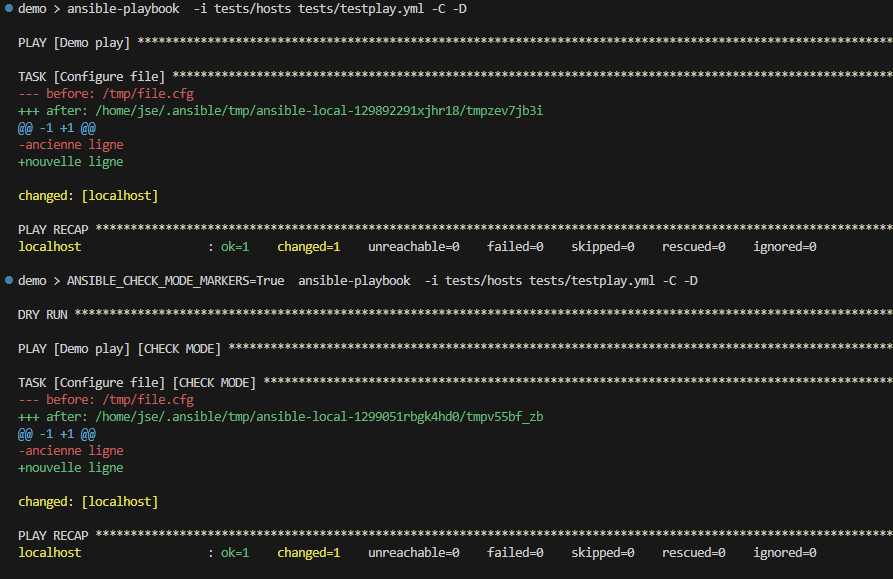
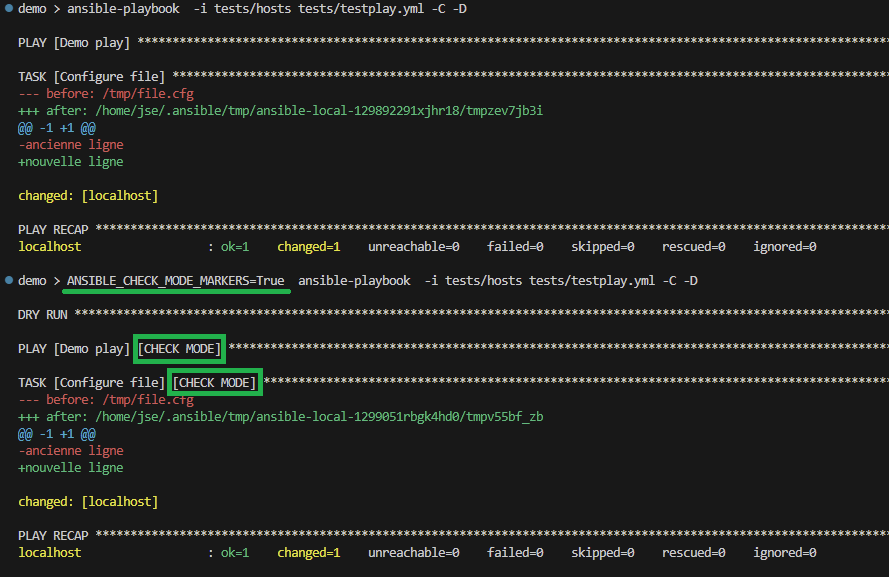
review

diff --git a/exampleSite/content/blogs/01-ansible-facile.md b/exampleSite/content/blogs/01-ansible-facile.md
@@ -1,6 +1,6 @@
 ---
-title: "Une meilleure expérience  Ansible"
-date: 2023-11-19T23:02:21+01:00
+title: "Ansible, une meilleure expérience est possible."
+date: 2023-11-25T19:02:21+01:00
 draft: false
 github_link: "https://github.com/jseguillon"
 author: "jseguillon"
@@ -13,67 +13,87 @@ description: ""
 toc:
 ---
 
-Ansible a mauvaise réputation en terme d'éxpérience, que ce soit pour l'ops/sre qui peine parfois à produire ses YAMLs, ou pour le dev qui voudrait au moins pouvoir lancer quelques pipelines lui-même mais qui ne comprend rien aux logs et qui a peur de faire une bêtise. Ce billet de blog, tout premier pour moi, est là pour donner quelques pistes pour se rendre la vie plus belle quand on utilise Ansible. Let's go!
 
-## L'option diff 
+Ansible a mauvaise réputation en terme d'expérience utilisateur:
+* que ce soit pour l'ops/sre qui peine parfois à produire ses YAMLs
+* ou pour le dev qui voudrait au moins pouvoir lancer quelques pipelines lui-même mais qui ne comprend rien aux logs et qui a peur de faire une bêtise.
+
+
+Ce billet de blog, tout premier pour moi, est là pour donner quelques pistes pour se rendre la vie plus belle quand on utilise Ansible. Let's go!
+
+
+## L'option diff
+
 
 On commence par une option indispensable de la commande `ansible-playbook`: l'option `-D`, diff. Cette option va vous permettre de visualiser les modifications effectuées par une tâche Ansible. Une démo valant mieux que 100 mots, voici un avant/après option `-D`.
 
-L'exemple ci-dessous montre la commande `ansible-playbook -D` en action: 
 
 ![Le diff mode en action](/images/blogs/01-ansible-facile/diff_mod.png "Le diff mode en action")
 
-Vous l'aurez compris, l'option nous permet de voir au-délà du simple statut `[changed]`, les modifications **rééellement apportées** par Ansible. Si vous voulez mon avis, cette option devrait être activée par défaut dans Ansible...
+
+Vous l'aurez compris, l'option nous permet de voir au-délà du simple statut `[changed]`, les modifications **réellement apportées** par Ansible. Si vous voulez mon avis, cette option devrait être activée par défaut dans Ansible...
+
 
 ```
 # Toujours mettre le flag -D
 ansible-playbook -D ...
 ```
 
-La plupart des modules fonctionnent proprement avec le diff mode mais faites la chasse aux tâches qui affichent du changed sans aucune diff. J'ai un souvenir douloureux d'un module qui, renvoyait simplement changed sans détails. Tout le monde s'en était accomodé, les changements étaient maîtrisés sur ce périmètre... jusqu'au jour où...
+
+**Note** : La *plupart* des modules fonctionnent proprement avec le diff mode. Mais faites la chasse aux tâches qui affichent du changed sans aucune diff ! J'ai un souvenir douloureux d'un module qui renvoyait simplement `[changed]` sans détails. Tout le monde s'en était accommodé, les changements étaient maîtrisés sur ce périmètre... jusqu'au jour où...
+
 
 ## L'option check
 
-Autre option indispensable: le flag `-C `, check mode. Si Ansible ne peut garantir l'exécution d'un playbook, comme le ferait un Terraform, il est tout de même possible de lancer Ansible pour qu'il nous affiche ce *qu'il aurait fait* s'il n'avait pas été lancé avec le flag `-C`. 
+
+Autre option indispensable: le flag `-C `, check mode. Si Ansible ne peut garantir l'exécution d'un playbook, comme le ferait un Terraform, il est tout de même possible de lancer Ansible pour qu'il nous affiche ce *qu'il aurait fait* s'il n'avait pas été lancé avec le flag `-C`.
+
 
 Dans l'exemple ci-dessous, je lance deux fois le playbook, le fichier n'est jamais modifié:
 ![Le check mode en action](/images/blogs/01-ansible-facile/check_mod.png "Le check mode en action")
 
-Combiné avec le diff mode `-D` c'est mon combo préféré:
-* c'est rassurant de pouvoir vérifier ce qu'il devrait se passer quand on va réellement appliquer avant de le faire effectivement; et indispensable si vous espérez qu'un jour vos devs cliquent d'eux-même sur les étapes de déploiements des pipelines applicatives,
-* pour travailler ses roles c'est très pratique: on peut repartir de zéro à chaque exécution, sans jamais devoir re-créer sa VM (ou serveur) avant de recommencer. Bien sûr on doit ensuite s'assurer que tout fonctionne sans le check mode, mais on peut vraiment avancer plus rapidement. Essayez, vous verrez!
 
-**Attention**: cela ne *garanti pas* ce qu'il se passera réellement sur vos machines *au moment* ou vous allez lancer le playbook sans flag `-C`. Entre le moment où vous lancer votre check et le moment ou vous appliquerez réellement votre playbook, il peut y avoir eu des changements sur vos plateformes. Et contrairement à Terraform qui bloquerait en constatant que l'état de départ ne correspond plus à son "plan"; Ansible lui déroulera le playbook jusqu'au bout sans sourciller.
+Utilisé avec le diff mode `-D` c'est mon combo préféré:
+* c'est rassurant de pouvoir vérifier ce qu'il *devrait* se passer avant d'appliquer; et indispensable si vous espérez qu'un jour vos devs lancent d'eux-même l'exécution des playbooks qui les concernent,
+* pour travailler ses rôles c'est très pratique: on peut "repartir de zéro" à chaque exécution (en fait on ne fait rien), sans jamais devoir re-créer sa VM (ou serveur) avant de recommencer. Bien sûr on doit, à la fin, s'assurer que tout fonctionne sans le check mode, mais on peut vraiment avancer plus rapidement. Essayez, vous verrez!
 
-**Attention 2**: les roles ne sont pas souvent compatible avec le check mode, surtout à la première installation. Attendez-vous à devoir ajouter quelques `when: not ansible_check_mode` (voir même des `ignore_errors: {{ ansible_check_mode }}`) dans le code source des rôles que vous forkez.
 
 ```
-# Check mode + diff
+# Check mode + diff le combo parfait
+# Pour se rassurer ou pour dev plus vite
 ansible-playbook -C -D ...
 ```
 
-## Le "default callback" et ses configurations:
 
-Quand vous lancer vos playbooks, c'est le "Default Callback" qui se charge d'afficher les résultats. Et la configuration par défaut peut s'améliorer en réglant plusieurs variables d'environnement:
+**Attention**: cela ne *garanti pas* ce qu'il se passera réellement sur vos machines *au moment* ou vous allez lancer le playbook sans flag `-C`. Entre le moment où vous lancer votre check et le moment ou vous appliquez réellement votre playbook, il peut y avoir eu des changements sur vos plateformes (ou sur une dépendance, un nouveau paquet publié sur un dépôt par exemple).
+
+
+**Attention 2**: les rôles ne sont pas si souvent compatibles avec le check mode, surtout lorsqu'il n'a pas encore été lancé. Attendez-vous à devoir ajouter quelques `when: not ansible_check_mode` (voir même des `ignore_errors: {{ ansible_check_mode }}`) dans le code source des rôles que vous forkez.
+
+
+## Le "default callback" et ses configurations
+
+
+Quand vous lancer vos playbooks, c'est le plugin "default callback" qui se charge d'afficher les résultats. Et la configuration par défaut peut s'améliorer en réglant quelques variables d'environnement:
 * la variable `ANSIBLE_CHECK_MODE_MARKERS` pour aller avec le check mode: permet de bien indiquer si des tâches ont été lancées en check mode ou pas (encore un qui devrait être activer par défaut :/)
 ![check mode marker](/images/blogs/01-ansible-facile/check_mod_marker.png "Check mode marker")
 
-- la variable `ANSIBLE_SHOW_TASK_PATH_ON_FAILURE=True` affiche le chemin de les tâches en erreur, bien pratique aussi
-<!-- ![failule path](/images/blogs/01-ansible-facile/fail_path.png "Failure path") -->
 
-<p align="center">
-<img src="/images/blogs/01-ansible-facile/fail_path.png" alt="Failure path">
-</p>
+- la variable `ANSIBLE_SHOW_TASK_PATH_ON_FAILURE=True` affiche le chemin et la ligne de les tâches en erreur, bien pratique aussi
+![failule path](/images/blogs/01-ansible-facile/fail_path.png "Failure path")
 
 
 * la variable `ANSIBLE_CALLBACK_RESULT_FORMAT=yaml`, indispensable pour la lisibilité des debug messages
 ![Yaml](/images/blogs/01-ansible-facile/yaml_format.png "Yaml")
 
-En général, dans une pipeline CI/CD, j'active toutes ces options et j'utilise également celles-ci : 
+
+En général, dans une pipeline CI/CD, j'active toutes ces options et j'utilise également celles-ci :
 * la variable `ANSIBLE_DISPLAY_OK_HOSTS=True` masque les tâches qui sont ok
 * la variable `ANSIBLE_DISPLAY_SKIPPED_HOSTS=true` masque les tâches qui sont skipped
 
-Je ne les active que sur les étapes de check: l'objectif est de miniser la sortie pour ne voir que les changed, et avec leurs diffs bien sûr. 
+
+Je ne les active que sur les étapes de check: l'objectif est de miniser la sortie pour ne voir que les changed, et avec leurs diffs bien sûr.
+
 
 ```
 # Check mode qui montre uniquement les changed
@@ -82,88 +102,71 @@ ANSIBLE_DISPLAY_SKIPPED_HOSTS=true \
 ansible-playbook -C -D ...
 ```
 
-C'est avec toutes ces options que j'arrive à avoir des devs qui cliquent (presque) sereinement sur les pipelines de check d'abord, et de décider seuls d'appliquer ou non les changement qu'ils visualisent. 
 
-Allez, une dernière pour la route : la variable `ANSIBLE_FORCE_COLOR=True`, c'est celle-ci qu'il faut activer quand vous avez une pipepline en noir et blanc dans votre outil ce CI/CD préféré. De rien :) 
+C'est avec toutes ces options que j'arrive à avoir des devs qui cliquent (presque) sereinement sur les pipelines de check d'abord, et de décider seuls d'appliquer ou non les changements qu'ils visualisent.
 
-Rappel : toutes ces variables sont également configurables dans un fichier fichier de configuration `ansible.cfg`. C'est même recommandé (plus propre). Voir la [doc](https://docs.ansible.com/ansible/latest/collections/ansible/builtin/default_callback.html).
 
-## Utiliser un autre callback
+Une dernière pour la route : la variable `ANSIBLE_FORCE_COLOR=True`, c'est celle-ci qu'il faut activer quand vous avez une pipepline en noir et blanc dans votre outil ce CI/CD préféré. Et oui celle-ci aussi devrait être activée par défaut.
 
-Il y a d'autres callbacks disponsibles, la liste officielles est [ici](https://github.com/ansible/ansible/tree/devel/lib/ansible/plugins/callback) mais il y en a bien d'autres.
 
-Notamment il y a le callback [Ara](https://ara.recordsansible.org/), bien connu, qui permet d'enregistrer ses exécutions de playbooks dans une base de données et de les consulter via une interface web. Très pratique mais induit pas mal de lenteur à l'exécution (temps multiplié par 2 d'après mes mesures).
+**Note** : toutes ces variables sont également configurables dans un fichier fichier de configuration `ansible.cfg`. C'est même recommandé (plus propre). Voir la [doc](https://docs.ansible.com/ansible/latest/collections/ansible/builtin/default_callback.html).
 
-Il y en a un aussi super qui permet d'avoir une log au format Asciidoc avec un rendu ressemblant à une interface Web. Il est super mais n'a pas beacoup évolué depuis qu'il est sorti. Fin de la blague c'est le mien, mon bébé  [Caradoc](https://github.com/jseguillon/caradoc). Et si vous le trouvez cool, mettez des petites étoiles et/ou proposer des PRs ya de quoi en faire un outil formidable.
+
+## Ajouter un autre callback
+
+
+La doc Ansible nous explique:
+* que le default callback plugin est un plugin de type "stdout"
+* qu'on ne utiliser qu'un seul "callback plugin stdout" à la fois
+
+
+Ca semble triste mais heureusement, Ansible a prévu [d'autres types](https://docs.ansible.com/ansible/latest/plugins/callback.html) de callback plugins
+![Types de callback plugins](/images/blogs/01-ansible-facile/ansible_doc_callback_plugins.png "Types de callback plugins")
+
+
+Dans la catégorie "aggregate", il y a notamment le callback [Ara](https://ara.recordsansible.org/), qui permet d'enregistrer ses exécutions de playbooks dans une base de données et de les consulter via une interface web. Très pratique mais induit pas mal de lenteur à l'exécution (temps multiplié par 2 d'après mes mesures).
+
+
+Il y en a un aussi super qui permet d'avoir une log au format Asciidoc et pourtant un rendu similaire à une interface Web. Il est incroyable mais n'a pas beacoup évolué depuis qu'il est sorti. Fin de la blague c'est le mien, mon bébé [Caradoc](https://github.com/jseguillon/caradoc). Et si vous le trouvez cool, mettez des petites étoiles et/ou proposer des PRs ya de quoi en faire un outil formidable.
+
 
 ![Il est beau je vous dis](/images/blogs/01-ansible-facile/caradoc.png "Je me suis réveillé, j'avais envie de manger des logs.")
 
-<!--TODO: nouvelle version: chainer les callbacks -->
 
 ## "Voir" ce qu'Ansible a fait sur un serveur
 
+
 Ansible se connecte en ssh pour effectuer ses connexions. Et il laisse des traces bienvenues dans le syslog des machines. En fouillant les logs avec un simple grep, on peut visualiser ce qu'il s'est passé sur la machine. C'est pas fou mais ça permet au moins d'être sûr que Ansible travaille sur le bon serveur. Ou de trouver quand un fichier a été modifié par Ansible par exemple.
+
 
 ```
 # Serveur, mon beau serveur, Ansible est-il passé par ici ?
 amdin@server$ journalctl --since "1 hour ago" | grep ansible
 ```
 
+
 ## Utiliser les IAs conversationnelles et les outils IDE
 
-On est bientôt en 2024 et les IAs prennent le pouvoir !?! Pour ma part je considère que l'outil est assez bon pour me faire gagner du temps et je ne vois donc pas de raison de m'en passser. Surtout pour Ansible qui est un puis sans fond: les listes de modules, plugins, variables, etc... c'est "inhumain". Bien sûr relisez, corrigez, etc... mais ne vous privez pas.
 
-De même, on ne recommandera jamais assez l'installation de plugins Ansible dans votre IDE. Vous pouvez avoir de la colloration syntaxique, du lint, de la complétion, des snippets etc... même dans vim! (enfin je crois).
-
-A la prochaine :)
-<!-- ## Flag verbose
-
-le flag -v 
-(pensez à le rendre configurable dans les params de la CI ça peut servir)
+On est bientôt en 2024 et les IAs prennent le pouvoir !?! Pour ma part je considère que l'outil est assez bon pour me faire gagner du temps et je ne vois donc pas de raison de m'en passer. Surtout pour Ansible qui est un puis sans fond: les listes de modules, plugins, variables, etc... c'est "inhumain". L'IA est un super outil pour ça. Bien sûr relisez, corrigez, testez ce que produisent les IAs... mais ne vous en privez pas :)
 
 
-(mais attention au 1er check mode => recette)
-
-## Utiliser les LLMS et les outils IDE 
-TODO: --> 
-
-<!--
-
-## Consulter les magics variables
-
-play_hosts, groups, etc... 
+De même, on ne recommandera jamais assez l'installation de plugins Ansible dans votre IDE. Vous pouvez avoir de la coloration syntaxique, du lint, de la complétion, des snippets etc... même dans vim ! Ci-dessous l'extension Vscode en action avec Lint qui pleure et la complétion qui fait le job.
 
 
-## Des inventaires dynamiques
-
-Les inventory plugins https://docs.ansible.com/ansible/2.9/plugins/inventory.html#plugin-list
-
-et rappel: possibles d'en mettre plusieurs sur la ligne de commande 
-
-## Gérer ses dépendances internes
-
-(probablement pas plus d'une collection (sera tjs temps de découper)  )
-
-## gare aux credentials Ansible
-
-(=no_log chiant et même pas secure à cause du ANSIBLE_DEBUG)
-
-## gare à molécule 
-
-(=oui c'est chouette mais est-ce que ça vaut le coup face à la flakyness alors qu'on a le check mode et des pltfs de recette)
-
-## Produire moins de Ansible ?
+![Vs code Ansible extension](/images/blogs/01-ansible-facile/caradoc.png "Vs code Ansible extension")
 
 
+La page qui listes les plugins officiels est [ici](https://ansible.readthedocs.io/projects/language-server/)
 
 
+## Consulter le site de Stéphane Robert
 
 
-## Pour plus tard: 
-delegates localhost et connexion local + multiple local
+Stéphane produit un contenu exhaustif et de qualité sur Ansible, avec une partie blog et une partie formation devops. Si ce n'est déjà fait, consultez d'urgence son [site](https://blog.stephane-robert.info/), il est rempli de bon conseils !
 
-Faire des diffs avec set_facts_diff 
 
-play_host 
+## La suite au prochain numéro
 
-forkez vos roles -->
+
+N'hésitez pas à me faire vos retours ou commentaires, directement sur Twitter (ooops "X" on dit désormais...), je suis friand de feedback :)
